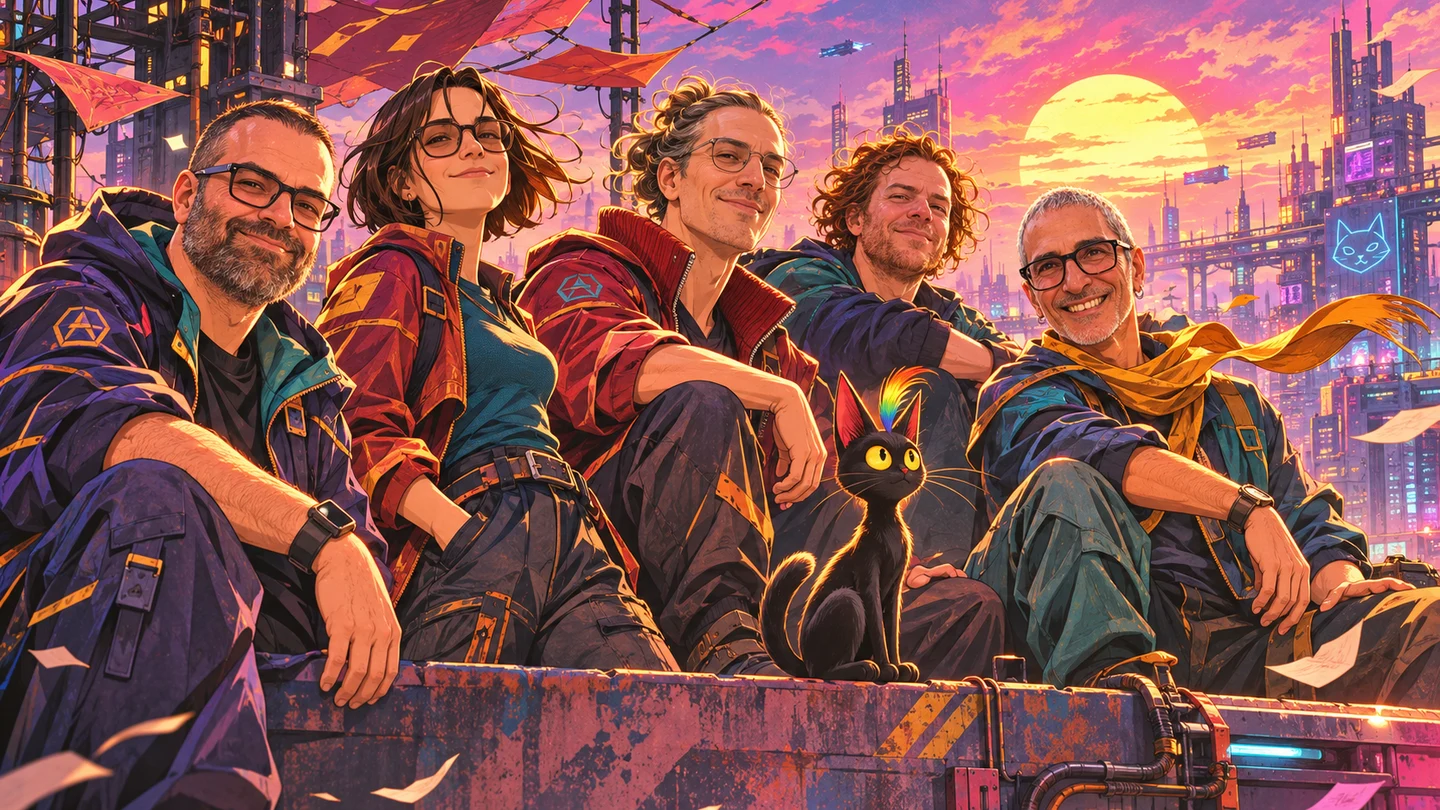
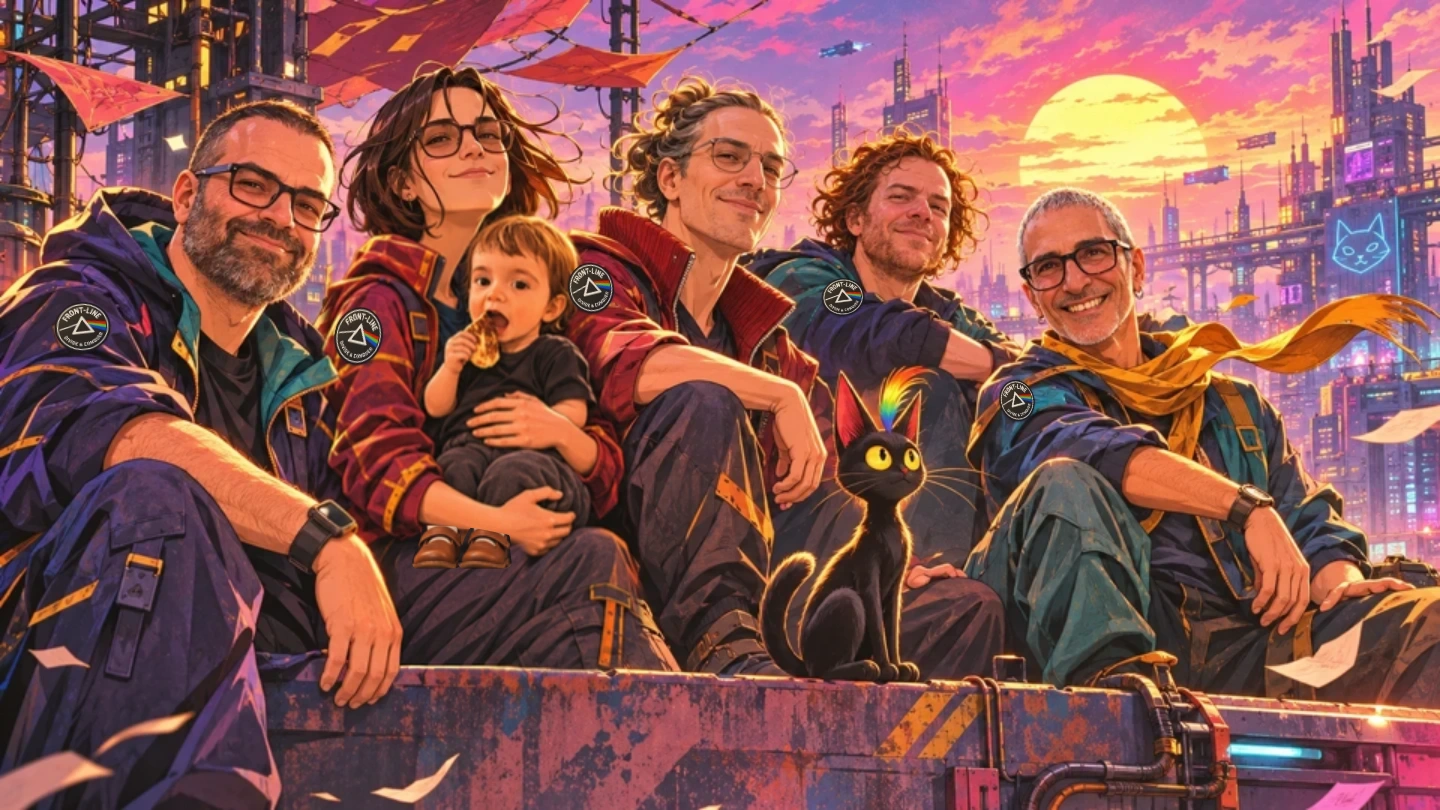
Refine anime character expressions and team artwork

diff --git a/src/components/AnimeExperience.tsx b/src/components/AnimeExperience.tsx
@@ -12,6 +12,8 @@ import { AnimeWebcam, paintAnimeWebcam } from './AnimeWebcam';
 import { deathNoteWebcamFrame, webcamViseme } from '@/data/animeWebcam';
 import type { FrontieViseme } from '@/data/animeWebcam';
 import { kiraCleanPlate } from './animeCharacterActing';
+import { railLookPlate } from './animeRailLook';
+import { origamiExpressions } from './animeOrigamiPortrait';
 import { mentorWinkPlate } from './animeMentorPrism';
 import { drawStreamerOffering } from './animeSpiritBomb';
 import { scoutSheet, titanGatePlate } from './animeTitanBreach';
@@ -124,6 +126,8 @@ export function AnimeExperience() {
     const titanScouts = new window.Image();
     const titanGate = new window.Image();
     const mentorWink = new window.Image();
+    const origamiFaces = new window.Image();
+    const railLook = new window.Image();
     const frontLineLogo = new window.Image();
     const prankLayers = { roof: new window.Image(), frontie: new window.Image(), partner: new window.Image(), team: new window.Image() };
     const cutPlates = {
@@ -253,6 +257,8 @@ export function AnimeExperience() {
           titanScouts,
           titanGate,
           mentorWink,
+          origamiFaces,
+          railLook,
           frontLineLogo,
         });
         if (offering && (image === 'spirit-bomb' || hadOffering)) {
@@ -306,6 +312,10 @@ export function AnimeExperience() {
     titanScouts.onload = redraw;
     titanScouts.src = `${ASSETS}${scoutSheet}`;
 
+    railLook.onload = redraw;
+    railLook.src = `${ASSETS}${railLookPlate}`;
+    origamiFaces.onload = redraw;
+    origamiFaces.src = `${ASSETS}${origamiExpressions}`;
     mentorWink.onload = redraw;
     mentorWink.src = `${ASSETS}${mentorWinkPlate}`;
     frontLineLogo.onload = redraw;
@@ -345,6 +355,8 @@ export function AnimeExperience() {
       titanScouts.onload = null;
       titanGate.onload = null;
       mentorWink.onload = null;
+      origamiFaces.onload = null;
+      railLook.onload = null;
       frontLineLogo.onload = null;
       for (const layer of Object.values(prankLayers)) layer.onload = null;
       for (const plate of Object.values(beatPlates)) plate.onload = null;

diff --git a/src/components/animeOpeningEffects.ts b/src/components/animeOpeningEffects.ts
@@ -1,3 +1,5 @@
+import { drawRailLook } from './animeRailLook';
+import { drawOrigamiPortrait } from './animeOrigamiPortrait';
 import { drawMentorPrism } from './animeMentorPrism';
 import { drawTitanBreach } from './animeTitanBreach';
 import { drawTailCopter } from './animeTailCopter';
@@ -146,9 +148,11 @@ type Frame = {
   titanGate?: HTMLImageElement;
   frontLineLogo?: HTMLImageElement;
   mentorWink?: HTMLImageElement;
+  origamiFaces?: HTMLImageElement;
+  railLook?: HTMLImageElement;
 };
 
-export function drawAnimeOpeningEffects(ctx: CanvasRenderingContext2D, { effect, image, time, local, remaining, progress, energy, camera, art, kiraPlate, monitorOpen, lateBeatPlate, cutActionPlate, katanaArt, prankLayers, copterRoofs, copterCat, titanScouts, titanGate, frontLineLogo, mentorWink }: Frame) {
+export function drawAnimeOpeningEffects(ctx: CanvasRenderingContext2D, { effect, image, time, local, remaining, progress, energy, camera, art, kiraPlate, monitorOpen, lateBeatPlate, cutActionPlate, katanaArt, prankLayers, copterRoofs, copterCat, titanScouts, titanGate, frontLineLogo, mentorWink, origamiFaces, railLook }: Frame) {
   const width = ctx.canvas.width;
   const height = ctx.canvas.height;
   ctx.clearRect(0, 0, width, height);
@@ -175,6 +179,12 @@ export function drawAnimeOpeningEffects(ctx: CanvasRenderingContext2D, { effect,
 
   if (image === 'titan-breach') {
     drawTitanBreach(ctx, local, energy, art, titanScouts, titanGate);
+    ctx.restore();
+    return;
+  }
+
+  if (image === 'cast-origami') {
+    drawOrigamiPortrait(ctx, local, camera, origamiFaces);
     ctx.restore();
     return;
   }
@@ -221,6 +231,8 @@ export function drawAnimeOpeningEffects(ctx: CanvasRenderingContext2D, { effect,
     }
     ctx.restore();
   }
+
+  if (image === 'rail') drawRailLook(ctx, local, camera, railLook);
 
   if (effect === 'rain' || effect === 'still') {
     ctx.strokeStyle = effect === 'rain' ? '#8cd6ff' : '#8a9cb9';

diff --git a/src/components/animeOrigamiPortrait.ts b/src/components/animeOrigamiPortrait.ts
@@ -1,0 +1,31 @@
+export const origamiExpressions = 'actions/origami-expressions.webp';
+
+function smooth(value: number) {
+  const t = Math.max(0, Math.min(1, value));
+  return t * t * (3 - 2 * t);
+}
+
+export function drawOrigamiPortrait(
+  ctx: CanvasRenderingContext2D,
+  local: number,
+  camera?: { x: number; y: number; scale: number },
+  expressions?: HTMLImageElement,
+) {
+  if (local < .47 || !expressions?.complete || !expressions.naturalWidth) return;
+
+  ctx.save();
+  if (camera) {
+    ctx.translate(640 + camera.x * 12.8, 360 + camera.y * 7.2);
+    ctx.scale(camera.scale, camera.scale);
+    ctx.translate(-640, -360);
+  }
+  ctx.scale(4 / 3, 4 / 3);
+  ctx.translate(0, (540 - 960 * 500 / 756) * .34);
+  ctx.filter = 'saturate(1.07) contrast(1.04)';
+
+  ctx.globalAlpha = smooth((local - .47) / .13);
+  ctx.drawImage(expressions, 0, 0, 260, 130, 286, 133, 260, 130);
+  ctx.globalAlpha = smooth((local - .59) / .16);
+  ctx.drawImage(expressions, 0, 130, 260, 75, 286, 263, 260, 75);
+  ctx.restore();
+}

diff --git a/src/components/animeRailLook.ts b/src/components/animeRailLook.ts
@@ -1,0 +1,22 @@
+export const railLookPlate = 'actions/rail-look.webp';
+
+export function drawRailLook(
+  ctx: CanvasRenderingContext2D,
+  local: number,
+  camera?: { x: number; y: number; scale: number },
+  portrait?: HTMLImageElement,
+) {
+  if (local < .24 || !portrait?.complete || !portrait.naturalWidth) return;
+  const turn = Math.min(1, (local - .24) / .09);
+  ctx.save();
+  if (camera) {
+    ctx.translate(640 + camera.x * 12.8, 360 + camera.y * 7.2);
+    ctx.scale(camera.scale, camera.scale);
+    ctx.translate(-640, -360);
+  }
+  ctx.scale(4 / 3, 4 / 3);
+  ctx.filter = 'saturate(1.07) contrast(1.04)';
+  ctx.globalAlpha = turn * turn * (3 - 2 * turn);
+  ctx.drawImage(portrait, 393, 49);
+  ctx.restore();
+}
